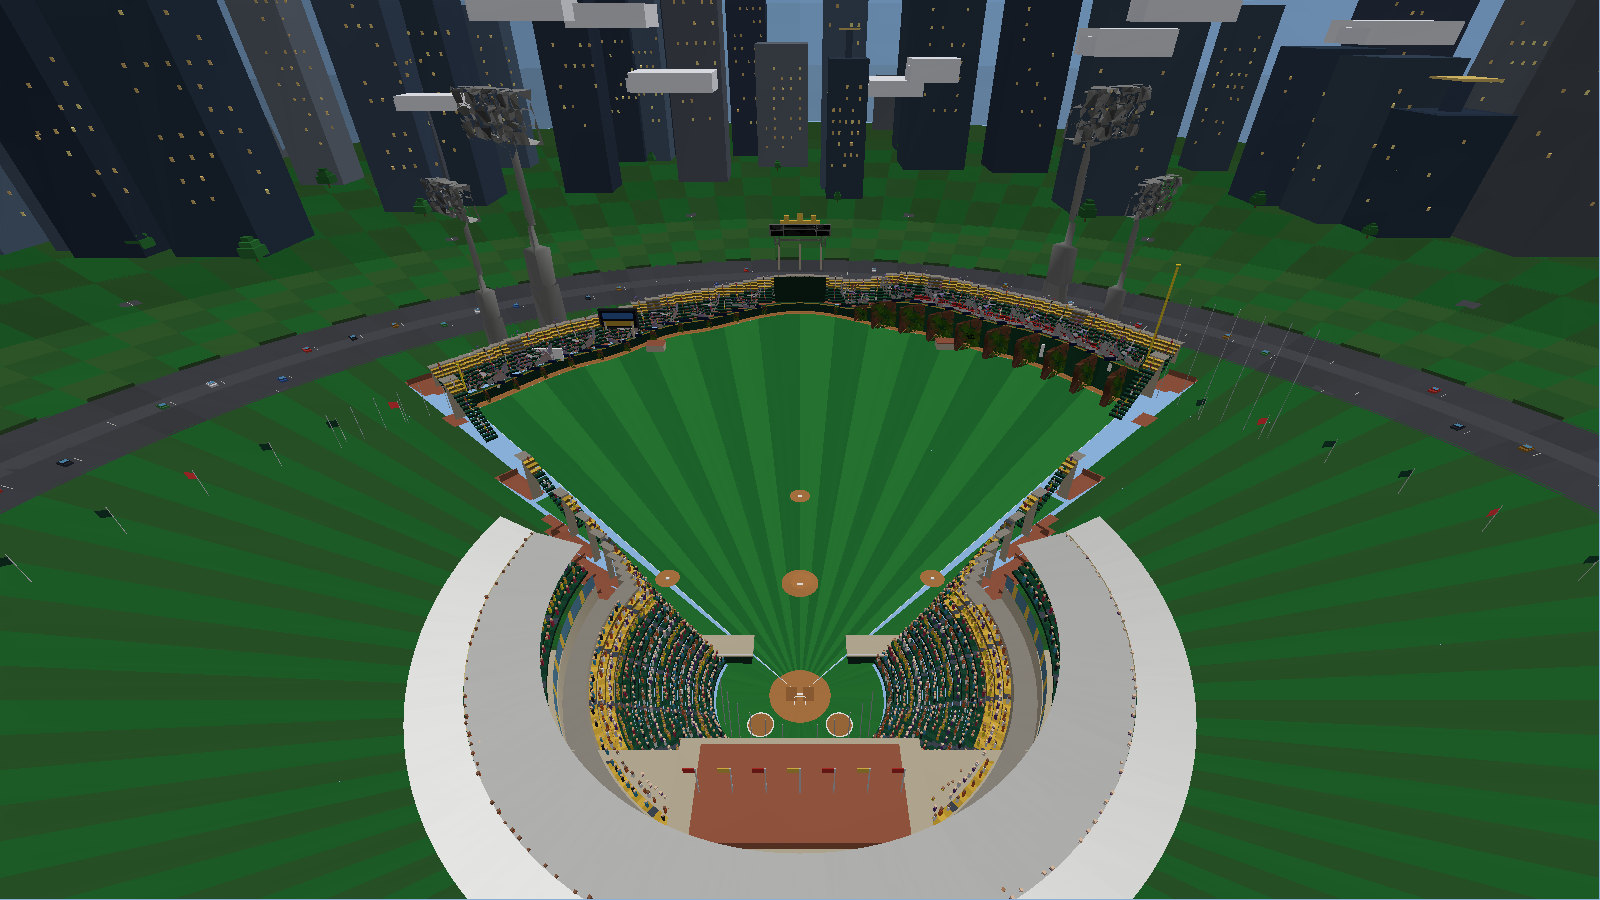
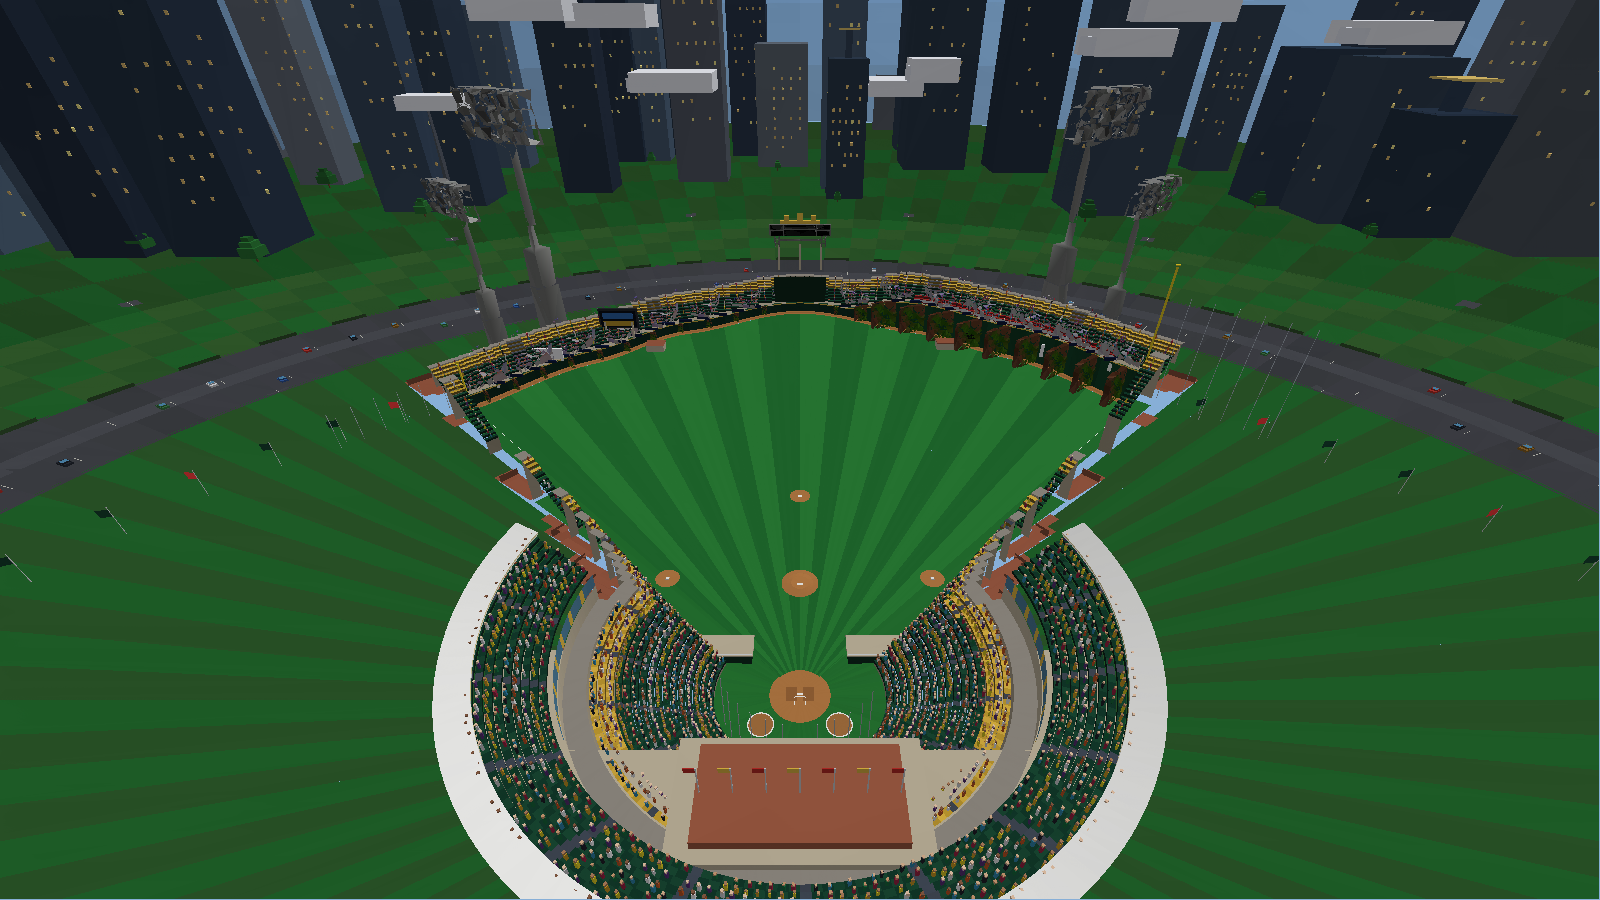
Fix stadium gaps and invisible barriers
Visual:
- Roof canopy slimmed from a giant 17-unit white donut wrapping the
  horseshoe to a slim rim capping the upper bowl
- New front fascia walls close the see-through slit under the
  elevated bowl (the light-blue strips at the base of the stands)
- Sloped cap closes the sky slot between OF wall top and bleachers
- Foul-territory fill extended: the +-0.02 rad no-man's-land along
  both foul lines (sky wedges widening toward the poles) is gone

Collision (ball no longer bounces off nothing):
- Invisible sky ceiling at 78u that ricocheted pop-ups is now a
  soft damp zone; hard failsafe only kills climb above 150u
- Stands deck uses the real 0.67 row slope and stops at the actual
  bowl depth - no more landing on invisible seats behind the rows
- Stands facade collision matches the real fascia (first tread),
  not a 12-14u glass pane in front of the seats
- Ground outside the bowl drops to city grade (-1.85) - balls no
  longer hover ~4ft over the parking lot
- Outer world ring softened to near-zero restitution

diff --git a/dinger-derby/src/rendering/Stadium3D.cpp b/dinger-derby/src/rendering/Stadium3D.cpp
@@ -347,10 +347,16 @@ Mesh3D buildField(const Layout& L) {
         float ang1 = -pi + t1 * 2.0f * pi;
         float angM = 0.5f * (ang0 + ang1);
         wrapAng(angM);
-        if (std::abs(angM) <= L.foulAngleRad() + 0.02f) {
+        // Skip only the true fair interior. The old +0.02 margin left a
+        // no-man's-land wedge along BOTH foul lines where neither the fair
+        // pie nor this fill drew anything — the sky showed straight through
+        // (the light-blue strips flanking the field, widening toward the
+        // foul poles). Straddling segments now overlap the fair edge by a
+        // hair at y=0.002 (above the fair pie's y=0.0 — no z-fight).
+        if (std::abs(angM) < L.foulAngleRad() - 0.001f) {
             continue; // fair handled above
         }
-        float rSeat = seatInnerR(L, angM) - 0.4f;
+        float rSeat = seatInnerR(L, angM) + 0.1f; // overlap the fascia — no see-through slit
         // Start at the plate itself — the fair pie covers r>=0.02 in fair
         // territory, and foul territory must meet it or a bare ring shows
         // through behind home.
@@ -658,6 +664,29 @@ Mesh3D buildStands(const Layout& L) {
         bool club = isClubZone(angM);
         bool isAisle = (i % 10) == 0;
 
+        // Front fascia — solid wall from the ground up to the first row.
+        // Without it the elevated bowl floated: sight lines passed straight
+        // under the first riser and out to the sky, reading as a bright
+        // light-blue strip at the base of the stands from every angle.
+        if (ofBleach) {
+            // Close the slot between the OF wall top and the first bleacher
+            // row: sloped walkway cap from the wall back up to the deck.
+            float wallR = L.wallRAtAngle(angM);
+            float wallH = L.wallHeightAtAngle(angM);
+            addQuad(
+                m, L.fromHome(wallR + 0.15f, ang0, wallH - 0.04f),
+                L.fromHome(wallR + 0.15f, ang1, wallH - 0.04f),
+                L.fromHome(rIn + 0.05f, ang1, yBase + 0.03f),
+                L.fromHome(rIn + 0.05f, ang0, yBase + 0.03f), shade(facadeGrayColor(), 0.88f)
+            );
+        } else {
+            addQuad(
+                m, L.fromHome(rIn - 0.02f, ang0, -0.12f), L.fromHome(rIn - 0.02f, ang1, -0.12f),
+                L.fromHome(rIn - 0.02f, ang1, yBase + 0.06f),
+                L.fromHome(rIn - 0.02f, ang0, yBase + 0.06f), shade(facadeGrayColor(), 0.82f)
+            );
+        }
+
         // OF bleachers: fewer rows, low; horseshoe: deep lower bowl
         int rowsLower = ofBleach ? 8 : (club ? 16 : 15);
         float r = rIn;
@@ -762,31 +791,34 @@ Mesh3D buildStands(const Layout& L) {
                 L.fromHome(rRow + 0.3f, ang1, yRow + 1.1f), L.fromHome(rRow + 0.3f, ang0, yRow + 1.1f),
                 seatGoldColor()
             );
-            // White cantilevered roof canopy rising gently outward.
+            // Slim white canopy rim capping the upper bowl — a thin roof
+            // edge over the last rows, NOT a giant flat donut (the old 17-
+            // unit-wide canopy read as a second stadium floating outside
+            // the bowl from every high angle).
             float roofY0 = yRow + 1.2f;
             addQuad(
-                m, L.fromHome(rRow - 0.4f, ang0, roofY0), L.fromHome(rRow - 0.4f, ang1, roofY0),
-                L.fromHome(rRow + 6.5f, ang1, roofY0 + 2.2f), L.fromHome(rRow + 6.5f, ang0, roofY0 + 2.2f),
+                m, L.fromHome(rRow - 1.3f, ang0, roofY0), L.fromHome(rRow - 1.3f, ang1, roofY0),
+                L.fromHome(rRow + 3.2f, ang1, roofY0 + 1.4f), L.fromHome(rRow + 3.2f, ang0, roofY0 + 1.4f),
                 roofWhite
             );
-            // Sloped underside reaching forward over the suite ring.
+            // Sloped underside just under the rim.
             addQuad(
-                m, L.fromHome(rC1 + 0.5f, ang0, roofY0 - 0.8f), L.fromHome(rC1 + 0.5f, ang1, roofY0 - 0.8f),
-                L.fromHome(rRow - 0.4f, ang1, roofY0 - 0.15f), L.fromHome(rRow - 0.4f, ang0, roofY0 - 0.15f),
+                m, L.fromHome(rRow - 1.3f, ang0, roofY0 - 0.45f), L.fromHome(rRow - 1.3f, ang1, roofY0 - 0.45f),
+                L.fromHome(rRow + 2.8f, ang1, roofY0 + 0.9f), L.fromHome(rRow + 2.8f, ang0, roofY0 + 0.9f),
                 shade(roofWhite, 0.82f)
             );
-            // Truss rib struts from fascia to the roof's back edge.
+            // Truss rib struts from fascia to the rim's back edge.
             if (i % 5 == 0) {
                 addQuad(
                     m, L.fromHome(rRow + 0.1f, ang0, yRow + 1.0f), L.fromHome(rRow + 0.1f, ang1, yRow + 1.0f),
-                    L.fromHome(rRow + 6.5f, ang1, roofY0 + 2.1f), L.fromHome(rRow + 6.5f, ang0, roofY0 + 2.1f),
+                    L.fromHome(rRow + 3.0f, ang1, roofY0 + 1.3f), L.fromHome(rRow + 3.0f, ang0, roofY0 + 1.3f),
                     shade(roofWhite, 0.7f)
                 );
             }
             // Warm LED ribbon tucked under the roof's front edge.
             addQuad(
-                m, L.fromHome(rRow - 0.45f, ang0, roofY0 - 0.18f), L.fromHome(rRow - 0.45f, ang1, roofY0 - 0.18f),
-                L.fromHome(rRow - 0.45f, ang1, roofY0 + 0.1f), L.fromHome(rRow - 0.45f, ang0, roofY0 + 0.1f),
+                m, L.fromHome(rRow - 1.35f, ang0, roofY0 - 0.18f), L.fromHome(rRow - 1.35f, ang1, roofY0 - 0.18f),
+                L.fromHome(rRow - 1.35f, ang1, roofY0 + 0.1f), L.fromHome(rRow - 1.35f, ang0, roofY0 + 0.1f),
                 ledWarm
             );
         }
@@ -1847,7 +1879,8 @@ float Layout::seatDeckYAtRadius(float radiusFromHome, float angleRad) const {
     if (past < 0.0f) {
         return 0.0f;
     }
-    return bowlBaseHeight(angleRad) + past * 0.55f;
+    // Same 0.67 row slope the stands/collision use (0.88 rise per ~1.31 step).
+    return bowlBaseHeight(angleRad) + past * 0.67f;
 }
 
 bool Layout::containInsideDome(Vector3&, Vector3&, float) const {
@@ -1952,13 +1985,29 @@ bool pastFairFence(const Layout& layout, float r, float ang, float radius, float
     return r + radius > layout.wallRAtAngle(ang) + eps;
 }
 
+// Ground height for collision: field level inside the bowl footprint,
+// city grade (-1.85, matching buildCity's parking/suburb ground) once the
+// ball is past the last row / bleachers. Balls landing beyond the stands
+// used to hover ~4 ft in the air on an invisible field-height floor.
+float collisionGroundY(const Layout& layout, float r, float ang, float radius) {
+    wrapAng(ang);
+    float rBowl = layout.bowlInnerRadius(ang);
+    // OF bleachers: 8 rows ≈ 11 units deep, then the city apron.
+    // Foul horseshoe: 15–16 rows ≈ 21 units + concourse margin.
+    bool fairArc = std::abs(ang) <= layout.foulAngleRad() + 0.02f;
+    float depth = fairArc ? 13.5f : 24.0f;
+    if (r > rBowl + depth) {
+        return -1.85f + radius;
+    }
+    return radius + 0.01f;
+}
+
 } // namespace
 
 BallCollisionHit collideBall(
     const Layout& layout, Vector3& position, Vector3& velocity, float radius, bool stickOnContact
 ) {
     BallCollisionHit hit;
-    const float groundY = radius + 0.01f;
     const float fa = layout.foulAngleRad();
 
     auto refreshPolar = [&](float& rOut, float& angOut) {
@@ -1967,6 +2016,8 @@ BallCollisionHit collideBall(
 
     float r = 0.0f, ang = 0.0f;
     refreshPolar(r, ang);
+    // Field level in play, city grade once the ball leaves the bowl.
+    float groundY = collisionGroundY(layout, r, ang, radius);
     hit.sprayDeg = ang * (180.0f / pi);
     // Tight fair cone — foul strip near the line uses foul geometry (dugouts / seats).
     bool fair = std::abs(ang) <= fa + 0.012f;
@@ -2011,9 +2062,11 @@ BallCollisionHit collideBall(
         const float rWorld = layout.maxWallR() + 72.0f;
         if (r + radius > rWorld) {
             Vector3 target = layout.fromHome(rWorld - radius - 0.08f, ang, position.y);
-            target.y = std::max(target.y, groundY);
+            target.y = std::max(target.y, collisionGroundY(layout, rWorld, ang, radius));
             position = target;
-            bounceRadial(velocity, ang, 0.28f, 0.70f);
+            // Near-zero restitution: kill outward motion without a visible
+            // mid-air bounce off an invisible ring over the parking lot.
+            bounceRadial(velocity, ang, 0.04f, 0.60f);
             if (velocity.y > 1.5f) {
                 velocity.y *= 0.45f;
             }
@@ -2028,16 +2081,19 @@ BallCollisionHit collideBall(
         }
     }
 
-    // ── 3. Soft sky clamp (open park — kill moonshots that never land) ─
+    // ── 3. Soft sky damp (open park — no visible ceiling bounce) ────────
     {
-        const float yCeil = 78.0f;
-        if (position.y + radius > yCeil) {
-            position.y = yCeil - radius;
-            if (velocity.y > 0.0f) {
-                velocity.y = -velocity.y * 0.18f;
+        const float yCeil = 95.0f;
+        if (position.y > yCeil) {
+            // Bleed off climb rate at extreme height; NEVER snap position
+            // or flip velocity.y — the old hard clamp ricocheted towering
+            // pop-ups off an invisible ceiling at ~156 ft.
+            velocity.y *= 0.995f;
+            velocity.x *= 0.998f;
+            velocity.z *= 0.998f;
+            if (position.y > 150.0f) {
+                velocity.y = std::min(velocity.y, 0.0f);
             }
-            velocity.x *= 0.92f;
-            velocity.z *= 0.92f;
             hit.surface = HitSurface::Roof;
             hit.impactY = position.y;
         }
@@ -2225,11 +2281,16 @@ BallCollisionHit collideBall(
             }
 
             float pastBowl = std::max(0.0f, r - rBowl);
-            // Gradual rise: lower bowl rows then steeper upper.
-            float rise = pastBowl < 6.0f ? pastBowl * 0.42f
-                                         : 6.0f * 0.42f + (pastBowl - 6.0f) * 0.62f;
+            // Match the real seat geometry: rows rise 0.88 per ~1.31 radial
+            // step (slope ≈ 0.67). The old 0.42/0.62 profile sat BELOW the
+            // visible seats, and its slope ran to infinity so balls could
+            // "land on seats" floating in mid-air behind the last row.
+            const float maxPast = fair ? 12.5f : 22.0f; // actual bowl depth
+            float rise = pastBowl * 0.67f;
             float deckY = yBase + std::min(rise, 18.0f) + radius;
-            float facadeTop = yBase + (fair ? 12.0f : 14.5f);
+            // Front face = the real fascia wall (ground → first tread),
+            // not a 12–14-unit glass pane hovering in front of the seats.
+            float facadeTop = yBase + 0.75f;
 
             // Vertical facade (first-row face) — only when nearly at the lip.
             if (r + radius > rBowl && position.y < facadeTop && position.y > groundY - 0.05f &&
@@ -2246,13 +2307,13 @@ BallCollisionHit collideBall(
                 }
                 refreshPolar(r, ang);
                 pastBowl = std::max(0.0f, r - rBowl);
-                rise = pastBowl < 6.0f ? pastBowl * 0.42f
-                                       : 6.0f * 0.42f + (pastBowl - 6.0f) * 0.62f;
+                rise = pastBowl * 0.67f;
                 deckY = yBase + std::min(rise, 18.0f) + radius;
             }
 
             // Horizontal seat deck — land when dropping into the bowl.
-            if (r + radius > rBowl && position.y < deckY && position.y > yBase - 0.8f) {
+            if (r + radius > rBowl && pastBowl < maxPast && position.y < deckY &&
+                position.y > yBase - 0.8f) {
                 position.y = deckY;
                 if (velocity.y < 0.0f) {
                     velocity.y = -velocity.y * 0.22f; // soft seats
@@ -2308,6 +2369,8 @@ BallCollisionHit collideBall(
     }
 
     // ── 9. Final ground re-clamp after barrier snaps ──────────────────
+    refreshPolar(r, ang);
+    groundY = collisionGroundY(layout, r, ang, radius);
     if (position.y < groundY) {
         position.y = groundY;
         if (velocity.y < 0.0f) {
